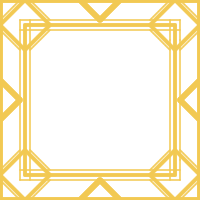
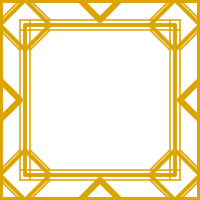
style

Changed region(s): [[0.0, 0.0, 1.0, 1.0]]

diff --git a/css/stylesheetmain2.css b/css/stylesheetmain2.css
@@ -5,22 +5,23 @@
 body{
   background: url('../images/background.jpg') repeat;
   margin: 0;
-  color: rgb(251, 250, 217);
-
+  color: rgb(231, 230, 190);
 }
 
 .contenedor{
   display: grid;
   grid-template-columns: repeat(6, 1fr);
   background-color: rgb(2, 14, 30, 0.90);
-
   }
 
+  p{
+    font-size: 25px;
+  }
 
 /* Encabezado */
 
 header{
-  padding: 8% 15%;
+  padding: 6% 15%;
   grid-column: 1/7;
   text-align: center;
   box-sizing: border-box;
@@ -36,7 +37,7 @@ header{
 .title{
   box-sizing: border-box;
   color: rgb(233, 198, 108);
-  font-size: 20px;
+  font-size: 1.5vw;
   background-color: rgb(2, 14, 30, 0.80);
   border: 5vw solid transparent;
   border-image: url('../images/borde.png') 49% stretch;
@@ -44,10 +45,10 @@ header{
 
 header h1{
   margin: 0;
-  font-size: 70px;
+  font-size: 5vw;
   font-family: 'Berkshire Swash', cursive;
   padding: 0;
-  color: rgb(245, 197, 55);
+  color: rgb(251, 250, 217);
 }
 
 .menu{
@@ -58,7 +59,7 @@ header h1{
 
 .menu a{
   float: left;
-  font-size:25px;
+  font-size: 1.5vw;
   color: inherit;
   text-decoration: none;
   width: 25%;
@@ -68,12 +69,12 @@ header h1{
 
 }
 .menu a:hover{
-  background-color: rgb(219, 137, 39);
+  background-color: rgb(220, 164, 0);
   color: rgb(23, 17, 4);
   }
 
   #active{
-    background-color: rgb(219, 137, 39);
+    background-color: rgb(220, 164, 0);
     color: rgb(23, 17, 4);
     border-bottom: 1vw rgb(203, 118, 19);
 
@@ -86,8 +87,6 @@ main{
   background-color: rgb(2, 14, 30, 0.98);
   border: 3vw solid transparent;
   border-image: url('../images/borde2.png') 49% round;
-
-
 }
 
 main h3{
@@ -97,10 +96,38 @@ main h3{
   font-family: 'Berkshire Swash', cursive;
   border-bottom: 2vw solid transparent;
   border-image: url('../images/borde2.png') 40% stretch;
-
-
 }
+
+main a {
+  font-size: 25px;
+  text-decoration: none;
+  color: rgb(240, 206, 87);
+  float: right;
+  padding: 2%;
+}
+
+main p {
+  text-align: justify;
+}
+
 
 footer{
   grid-column: 1/7;
+  background-color: inherit;
+  padding: 1%;
+  margin-top: 2%;
+}
+
+footer p{
+  float: left;
+  color: rgb(86, 98, 117);
+}
+
+footer a {
+  font-size: 25px;
+  text-decoration: none;
+  color: rgb(240, 206, 87);
+  float: right;
+  background-color: rgb(2, 14, 30, 0.90);
+  padding: 1%;
 }

diff --git a/index.html b/index.html
@@ -27,16 +27,18 @@
     <h3>¿Quiénes somos?</h3>
     <div class="cont">
       <p>Lorem ipsum dolor sit amet, consectetur adipisicing elit, sed do eiusmod tempor incididunt ut labore et dolore magna aliqua. Ut enim ad minim veniam, quis nostrud exercitation ullamco laboris nisi ut aliquip ex ea commodo consequat. Duis aute irure dolor in reprehenderit in voluptate velit esse cillum dolore eu fugiat nulla pariatur. Excepteur sint occaecat cupidatat non proident, sunt in culpa qui officia deserunt mollit anim id est laborum.</p>
+      <a href="#">Contacto</a>
+      <a href="#">Catálogo</a>
     </div>
     <h3>Historia</h3>
     <p>Lorem ipsum dolor sit amet, consectetur adipisicing elit, sed do eiusmod tempor incididunt ut labore et dolore magna aliqua. Ut enim ad minim veniam, quis nostrud exercitation ullamco laboris nisi ut aliquip ex ea commodo consequat. Duis aute irure dolor in reprehenderit in voluptate velit esse cillum dolore eu fugiat nulla pariatur. Excepteur sint occaecat cupidatat non proident, sunt in culpa qui officia deserunt mollit anim id est laborum.</p>
-    <a href="#">leer más</a>
+    <a href="#">Leer más...</a>
   </main>
 
 
   <footer>
       <div class="pie">
-      <p>Lorem ipsum dolor sit amet, consectetur adipisicing elit, sed do eiusmod tempor incididunt ut labore et dolore magna aliqua.</p>
+      <p>Todos los derechos reservados -  © Golden Leaves  2020</p>
     </div>
       <a href="#">Subir</a>
   </footer>
